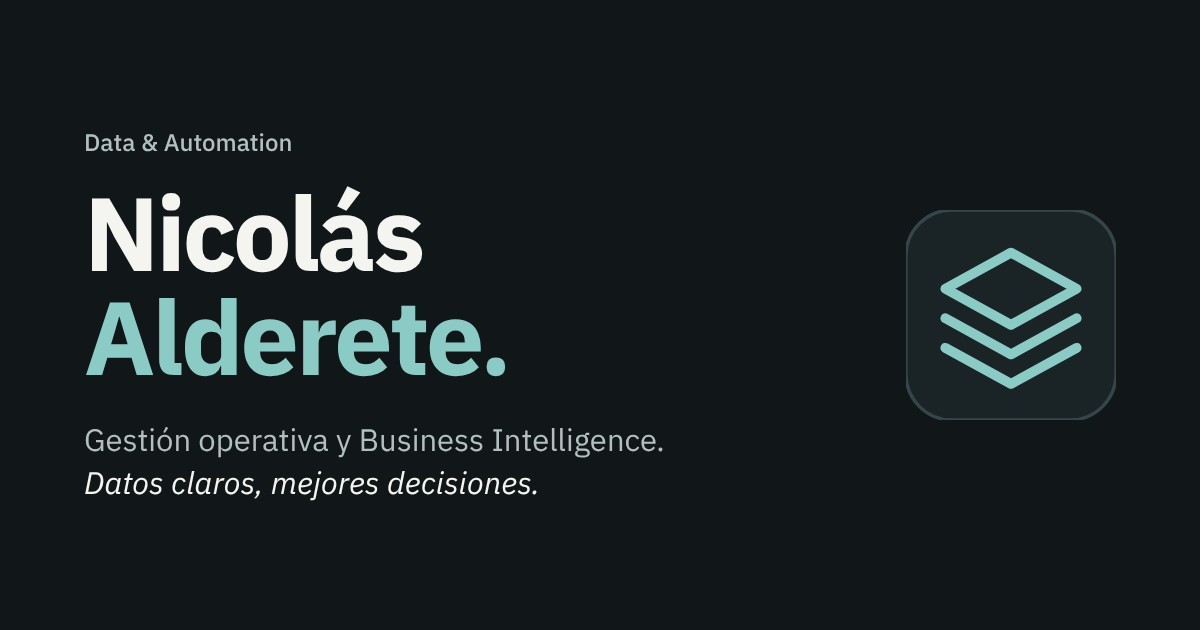
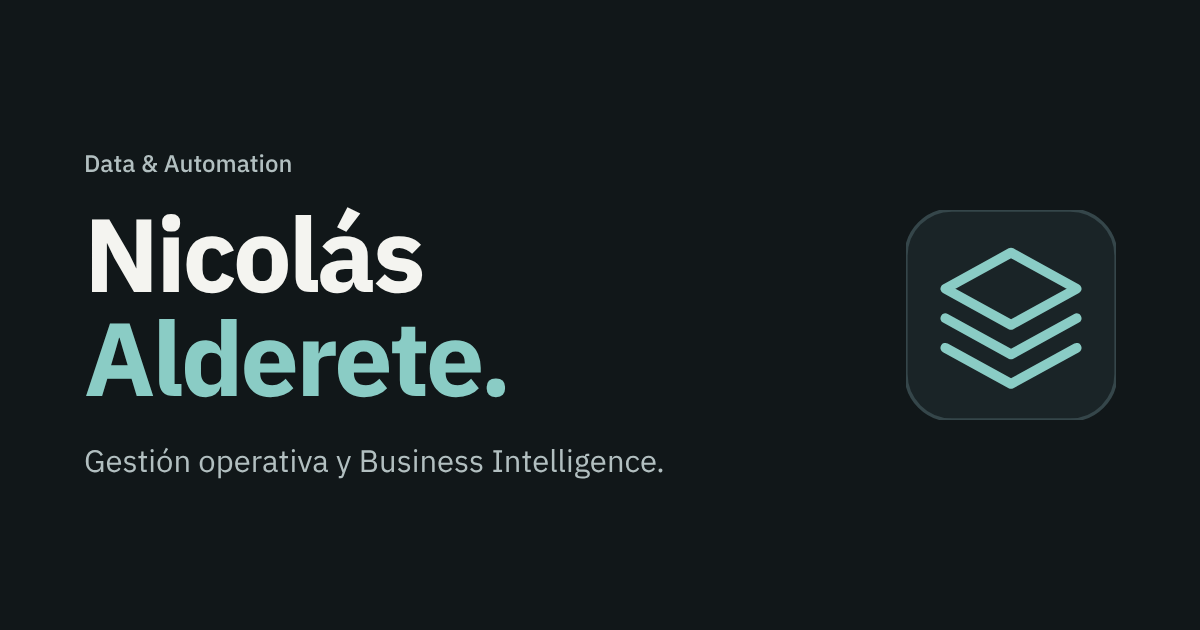
Quita el lema de la portada
Claude-Session: https://claude.ai/code/session_019oqm24apScdJa8YTtKtuDZ

Changed region(s): [[0.0617, 0.3016, 0.4317, 0.6333], [0.0617, 0.6635, 0.555, 0.7841], [0.0617, 0.2111, 0.2467, 0.2714]]

diff --git a/index.html b/index.html
@@ -2,7 +2,7 @@
 <html lang="es"><head><meta charset="utf-8"><meta name="viewport" content="width=device-width,initial-scale=1"><title>Nicolás Alderete — Data &amp; Automation</title><meta name="description" content="Portfolio de Nicolás Alderete: gestión operativa y de equipos, coordinación transversal, Business Intelligence, reporting ejecutivo y mejora de procesos."><meta name="theme-color" content="#111719"><link rel="canonical" href="https://nicoalderete.github.io/"><link rel="stylesheet" href="assets/css/portfolio.css?v=20261118c"><link rel="icon" href="assets/img/favicon.svg" type="image/svg+xml"><meta property="og:type" content="website"><meta property="og:site_name" content="Nicolás Alderete"><meta property="og:locale" content="es_AR"><meta property="og:title" content="Nicolás Alderete — Data &amp; Automation"><meta property="og:description" content="Portfolio de Nicolás Alderete: gestión operativa y de equipos, coordinación transversal, Business Intelligence, reporting ejecutivo y mejora de procesos."><meta property="og:url" content="https://nicoalderete.github.io/"><meta property="og:image" content="https://nicoalderete.github.io/assets/img/og.png"><meta property="og:image:width" content="1200"><meta property="og:image:height" content="630"><meta name="twitter:card" content="summary_large_image"><link rel="stylesheet" href="assets/css/refine.css?v=20261118h"></head>
 <body><a class="skip" href="#contenido">Saltar al contenido</a>
 <header><nav class="wrap main-nav" aria-label="Navegación principal"><a class="identity" href="#inicio">Nicolás Alderete <span>Data &amp; Automation</span></a><div class="navlinks"><a href="#proyectos">Proyectos</a><a href="#sobre-mi">Sobre mí</a><a href="#contacto">Contacto</a></div></nav></header>
-<main class="wrap" id="contenido"><section class="hero" id="inicio"><div><h1>Nicolás<br><span>Alderete.</span></h1><p class="hero-lead">Gestión operativa y Business Intelligence.<br><em class="hero-motto">Datos claros, mejores decisiones.</em></p><a class="hero-link" href="#proyectos">Ver proyectos <svg class="arrow" viewBox="0 0 24 24" aria-hidden="true"><path d="M5 12h14m-6-6 6 6-6 6"/></svg></a></div><svg class="hero-diagram" viewBox="88 33 284 154" aria-hidden="true"><g fill="none" stroke="#507c79" stroke-width="1.4"><path d="M100 45C150 45 150 110 195 110M100 110H195M100 175C150 175 150 110 195 110M265 110C310 110 310 45 360 45M265 110H360M265 110C310 110 310 175 360 175"/></g><g fill="none"><path class="hd-flow hd-in" pathLength="100" d="M100 45C150 45 150 110 195 110"/><path class="hd-flow hd-in hd-d1" pathLength="100" d="M100 110H195"/><path class="hd-flow hd-in hd-d2" pathLength="100" d="M100 175C150 175 150 110 195 110"/><path class="hd-flow hd-out" pathLength="100" d="M265 110C310 110 310 45 360 45"/><path class="hd-flow hd-out hd-d1" pathLength="100" d="M265 110H360"/><path class="hd-flow hd-out hd-d2" pathLength="100" d="M265 110C310 110 310 175 360 175"/></g><g fill="#8ACCC5"><circle cx="100" cy="45" r="5"/><circle cx="100" cy="110" r="5"/><circle cx="100" cy="175" r="5"/><circle cx="360" cy="45" r="5"/><circle cx="360" cy="110" r="5"/><circle cx="360" cy="175" r="5"/></g><rect x="195" y="75" width="70" height="70" rx="14" fill="#182729" stroke="#8ACCC5" stroke-width="1.6"/><g stroke="#8ACCC5" stroke-width="1.7" fill="none"><path d="m213 103 17-9 17 9-17 9-17-9Zm0 10 17 9 17-9m-34 10 17 9 17-9"/></g></svg></section>
+<main class="wrap" id="contenido"><section class="hero" id="inicio"><div><h1>Nicolás<br><span>Alderete.</span></h1><p class="hero-lead">Gestión operativa y Business Intelligence.</p><a class="hero-link" href="#proyectos">Ver proyectos <svg class="arrow" viewBox="0 0 24 24" aria-hidden="true"><path d="M5 12h14m-6-6 6 6-6 6"/></svg></a></div><svg class="hero-diagram" viewBox="88 33 284 154" aria-hidden="true"><g fill="none" stroke="#507c79" stroke-width="1.4"><path d="M100 45C150 45 150 110 195 110M100 110H195M100 175C150 175 150 110 195 110M265 110C310 110 310 45 360 45M265 110H360M265 110C310 110 310 175 360 175"/></g><g fill="none"><path class="hd-flow hd-in" pathLength="100" d="M100 45C150 45 150 110 195 110"/><path class="hd-flow hd-in hd-d1" pathLength="100" d="M100 110H195"/><path class="hd-flow hd-in hd-d2" pathLength="100" d="M100 175C150 175 150 110 195 110"/><path class="hd-flow hd-out" pathLength="100" d="M265 110C310 110 310 45 360 45"/><path class="hd-flow hd-out hd-d1" pathLength="100" d="M265 110H360"/><path class="hd-flow hd-out hd-d2" pathLength="100" d="M265 110C310 110 310 175 360 175"/></g><g fill="#8ACCC5"><circle cx="100" cy="45" r="5"/><circle cx="100" cy="110" r="5"/><circle cx="100" cy="175" r="5"/><circle cx="360" cy="45" r="5"/><circle cx="360" cy="110" r="5"/><circle cx="360" cy="175" r="5"/></g><rect x="195" y="75" width="70" height="70" rx="14" fill="#182729" stroke="#8ACCC5" stroke-width="1.6"/><g stroke="#8ACCC5" stroke-width="1.7" fill="none"><path d="m213 103 17-9 17 9-17 9-17-9Zm0 10 17 9 17-9m-34 10 17 9 17-9"/></g></svg></section>
 <section class="work" id="proyectos"><div class="section-head"><h2>Proyectos seleccionados</h2><p>Problemas reales, mi aporte y las soluciones que construí.</p></div><div class="filters" role="group" aria-label="Filtrar proyectos"><button type="button" data-filter="all" aria-pressed="true">Todos</button><button type="button" data-filter="management" aria-pressed="false">Gestión</button><button type="button" data-filter="automation" aria-pressed="false">Automatización</button><button type="button" data-filter="bi" aria-pressed="false">Business Intelligence</button></div><p class="filter-status sr-only" role="status" aria-live="polite">7 proyectos</p><div class="projects"><article class="project" data-category="operations automation"><a class="project-visual" href="casos/gestion-cobranzas.html" aria-label="Ver caso: Gestión de cobranzas"><figure><div class="mini-app" aria-hidden="true"><div class="mini-side"><span class="mini-symbol">◇</span><span class="selected">Carteras</span><span class="">Casos</span><span class="">Archivo</span></div><div class="mini-main"><strong>Gestión de cartera</strong><div class="mini-table"><div class="mini-head"><span>Registro</span><span>Estado</span><span>Detalle</span></div><div class="mini-row"><i></i><span class="mini-state ">Pendiente</span><i></i></div><div class="mini-row"><i></i><span class="mini-state bright">En gestión</span><i></i></div><div class="mini-row"><i></i><span class="mini-state ">En gestión</span><i></i></div><div class="mini-row"><i></i><span class="mini-state bright">Cerrado</span><i></i></div></div></div></div><figcaption>Vista conceptual</figcaption></figure></a><div class="project-body"><p class="project-type">Sistemas de negocio · +50 usuarios</p><h3><a href="casos/gestion-cobranzas.html">Gestión de cobranzas</a></h3><p class="project-description">Conecté los saldos y pagos de los clientes con la gestión de cada ejecutivo y el seguimiento central, preservando estados, comentarios e histórico.</p><div class="tags"><span class="tag">Apps Script</span><span class="tag">Google Sheets</span></div><a class="case-link" href="casos/gestion-cobranzas.html" aria-label="Ver caso de Gestión de cobranzas">Ver caso <svg class="arrow" viewBox="0 0 24 24" aria-hidden="true"><path d="M5 12h14m-6-6 6 6-6 6"/></svg></a></div></article><article class="project" data-category="operations bi management"><a class="project-visual" href="casos/reporting-ejecutivo.html" aria-label="Ver caso: Reporting ejecutivo"><figure><div class="mini-app" aria-hidden="true"><div class="mini-side"><span class="mini-symbol">◇</span><span class="selected">Resumen</span><span class="">Períodos</span><span class="">Fuentes</span></div><div class="mini-main"><strong>Informe operativo</strong><div class="mini-report"><div class="mini-lines"><i></i><i></i><i></i></div><div class="mini-bars"><i style="height:30%"></i><i style="height:50%"></i><i style="height:40%"></i><i style="height:70%"></i><i style="height:55%"></i><i style="height:85%"></i></div></div></div></div><figcaption>Vista conceptual</figcaption></figure></a><div class="project-body"><p class="project-type">Análisis y comunicación · Dirección</p><h3><a href="casos/reporting-ejecutivo.html">Reporting ejecutivo</a></h3><p class="project-description">Consolidé indicadores y preparé reportes que explican variaciones, pendientes y prioridades para las conversaciones de gestión.</p><div class="tags"><span class="tag">Reporting</span><span class="tag">Business Intelligence</span></div><a class="case-link" href="casos/reporting-ejecutivo.html" aria-label="Ver caso de Reporting ejecutivo">Ver caso <svg class="arrow" viewBox="0 0 24 24" aria-hidden="true"><path d="M5 12h14m-6-6 6 6-6 6"/></svg></a></div></article><article class="project" data-category="operations management"><a class="project-visual" href="casos/sistema-gestion.html" aria-label="Ver caso: Gestión operativa y de equipos"><figure><div class="mini-app" aria-hidden="true"><div class="mini-side"><span class="mini-symbol">◇</span><span class="selected">Prioridades</span><span class="">Acciones</span><span class="">Decisiones</span></div><div class="mini-main"><strong>Seguimiento de gestión</strong><div class="mini-table"><div class="mini-head"><span>Tema</span><span>Estado</span><span>Responsable</span></div><div class="mini-row"><i></i><span class="mini-state ">Asignado</span><i></i></div><div class="mini-row"><i></i><span class="mini-state bright">En curso</span><i></i></div><div class="mini-row"><i></i><span class="mini-state ">Asignado</span><i></i></div><div class="mini-row"><i></i><span class="mini-state bright">Cerrado</span><i></i></div></div></div></div><figcaption>Vista conceptual</figcaption></figure></a><div class="project-body"><p class="project-type">Gestión · +60 personas</p><h3><a href="casos/sistema-gestion.html">Gestión operativa y de equipos</a></h3><p class="project-description">Comparto la supervisión de un equipo de más de 60 personas: ordeno prioridades, coordino con otras áreas y llevo cada reunión a acciones con responsable.</p><div class="tags"><span class="tag">Gestión de equipos</span><span class="tag">Coordinación</span><span class="tag">KPIs</span></div><a class="case-link" href="casos/sistema-gestion.html" aria-label="Ver caso de Gestión operativa y de equipos">Ver caso <svg class="arrow" viewBox="0 0 24 24" aria-hidden="true"><path d="M5 12h14m-6-6 6 6-6 6"/></svg></a></div></article><article class="project" data-category="bi"><a class="project-visual" href="casos/business-intelligence.html" aria-label="Explorar Business Intelligence"><figure><div class="bi-cover" aria-hidden="true"><div class="bi-cover-title">Business Intelligence <span>04 casos</span></div><div class="bi-cover-grid"><div><b>01</b><span>Operaciones</span><small>Actividad · pendientes</small></div><div><b>02</b><span>Continuidad</span><small>Movilidad · tiempos</small></div><div><b>03</b><span>Bajas</span><small>Motivos · permanencia</small></div><div><b>04</b><span>Atención</span><small>Mensajes · conversaciones</small></div></div></div><figcaption>Áreas de análisis</figcaption></figure></a><div class="project-body"><p class="project-type">Analytics · 4 casos aplicados</p><h3><a href="casos/business-intelligence.html">Business Intelligence</a></h3><p class="project-description">Desarrollé tableros y análisis sobre operaciones, continuidad, bajas y atención, desde la definición de métricas hasta la lectura del resultado.</p><div class="tags"><span class="tag">Data Studio</span><span class="tag">Data Analysis</span><span class="tag">KPIs</span></div><a class="case-link" href="casos/business-intelligence.html" aria-label="Explorar los casos de Business Intelligence">Explorar casos <svg class="arrow" viewBox="0 0 24 24" aria-hidden="true"><path d="M5 12h14m-6-6 6 6-6 6"/></svg></a></div></article><article class="project" data-category="operations bi automation"><a class="project-visual" href="casos/control-flota-datos.html" aria-label="Ver caso: Control de flota"><figure><div class="mini-app" aria-hidden="true"><div class="mini-side"><span class="mini-symbol">◇</span><span class="selected">Unidades</span><span class="">Registros</span><span class="">Histórico</span></div><div class="mini-main"><strong>Registro de flota</strong><div class="mini-table"><div class="mini-head"><span>Registro</span><span>Estado</span><span>Detalle</span></div><div class="mini-row"><i></i><span class="mini-state ">Activo</span><i></i></div><div class="mini-row"><i></i><span class="mini-state bright">En revisión</span><i></i></div><div class="mini-row"><i></i><span class="mini-state ">Activo</span><i></i></div><div class="mini-row"><i></i><span class="mini-state bright">Registrado</span><i></i></div></div></div></div><figcaption>Vista conceptual</figcaption></figure></a><div class="project-body"><p class="project-type">Integración de datos · +5.000 unidades</p><h3><a href="casos/control-flota-datos.html">Control de flota</a></h3><p class="project-description">Integré fuentes de flota, revisiones periódicas y mantenimiento con validaciones e históricos para consultar el estado actual y comparar períodos.</p><div class="tags"><span class="tag">Apps Script</span><span class="tag">Google Sheets</span><span class="tag">Data Studio</span></div><a class="case-link" href="casos/control-flota-datos.html" aria-label="Ver caso de Control de flota">Ver caso <svg class="arrow" viewBox="0 0 24 24" aria-hidden="true"><path d="M5 12h14m-6-6 6 6-6 6"/></svg></a></div></article><article class="project" data-category="operations automation management"><a class="project-visual" href="casos/procesos-entre-equipos.html" aria-label="Ver caso: Automatización de procesos"><figure><div class="mini-app" aria-hidden="true"><div class="mini-side"><span class="mini-symbol">◇</span><span class="selected">Flujos</span><span class="">Registros</span><span class="">Reglas</span></div><div class="mini-main"><strong>Flujo de trabajo</strong><div class="mini-flow"><div><i>01</i><span>Registro</span></div><b>›</b><div class="active"><i>02</i><span>Reglas</span></div><b>›</b><div><i>03</i><span>Equipo</span></div></div><div class="mini-track"><span></span><span></span><span></span></div></div></div><figcaption>Vista conceptual</figcaption></figure></a><div class="project-body"><p class="project-type">Diseño de procesos</p><h3><a href="casos/procesos-entre-equipos.html">Automatización de procesos</a></h3><p class="project-description">Convertí necesidades de distintos equipos en registros, reglas y automatizaciones para dar continuidad a cada gestión.</p><div class="tags"><span class="tag">Apps Script</span><span class="tag">Google Sheets</span></div><a class="case-link" href="casos/procesos-entre-equipos.html" aria-label="Ver caso de Automatización de procesos">Ver caso <svg class="arrow" viewBox="0 0 24 24" aria-hidden="true"><path d="M5 12h14m-6-6 6 6-6 6"/></svg></a></div></article><article class="project" data-category="operations automation bi"><a class="project-visual" href="casos/fleet-ops-center.html" aria-label="Ver caso: Fleet Ops Center"><figure><div class="mini-app" aria-hidden="true"><div class="mini-side"><span class="mini-symbol">◇</span><span class="selected">Operación</span><span>Equipos</span><span>Seguimiento</span></div><div class="mini-main"><strong>Fleet Ops Center</strong><div class="mini-modules"><span>Revisiones</span><span>Mantenimiento</span><span>Taller</span><span>Gas</span><span>Documentación</span><span>Cobranzas</span></div></div></div><figcaption>Vista conceptual</figcaption></figure></a><div class="project-body"><p class="project-type">Producto interno · En desarrollo</p><h3><a href="casos/fleet-ops-center.html">Fleet Ops Center</a></h3><p class="project-description">Diseño una herramienta interna para reunir procesos, información e indicadores de flota en un mismo espacio de trabajo.</p><div class="tags"><span class="tag">Diseño funcional</span><span class="tag">Integración de datos</span></div><a class="case-link" href="casos/fleet-ops-center.html" aria-label="Ver caso de Fleet Ops Center">Ver caso <svg class="arrow" viewBox="0 0 24 24" aria-hidden="true"><path d="M5 12h14m-6-6 6 6-6 6"/></svg></a></div></article></div></section>
 <section id="sobre-mi" class="about"><div><div class="eyebrow">Sobre mí</div><h2>Entender el problema.<br>Construir la solución.</h2><div class="portrait"><img src="assets/img/retrato-mejorado-320.webp" srcset="assets/img/retrato-mejorado-320.webp 320w, assets/img/retrato-mejorado.webp 1254w" sizes="84px" width="1254" height="1254" alt="Nicolás Alderete" loading="lazy" decoding="async"><div><b>Nicolás Alderete</b><small>Data &amp; Automation · Buenos Aires</small></div></div></div><div class="about-copy"><p>Soy Nicolás. Combino gestión de operaciones y equipos con análisis de datos, Business Intelligence y automatización para mejorar procesos y decisiones de negocio. Actualmente soy supervisor en deRentas, donde coordino iniciativas entre equipos, defino KPIs y desarrollo reportes ejecutivos y herramientas de gestión.</p><p>Mi foco está en detectar oportunidades de mejora, simplificar procesos y transformar datos en acciones. Estoy disponible para roles corporativos y proyectos independientes que requieran una mirada integral del negocio y soluciones con resultados medibles.</p></div><div class="toolbox" aria-labelledby="toolbox-title"><h3 id="toolbox-title">Herramientas y habilidades</h3><ul class="tools-grid"><li><svg viewBox="0 0 24 24" aria-hidden="true" focusable="false"><rect x="4" y="3" width="16" height="18" rx="2"/><path d="M4 9h16M4 15h16M10 9v12"/></svg><span>Google Sheets</span></li><li><svg viewBox="0 0 24 24" aria-hidden="true" focusable="false"><path d="m8 5-6 7 6 7m8-14 6 7-6 7M14 3l-4 18"/></svg><span>Google Apps Script</span></li><li><svg viewBox="0 0 24 24" aria-hidden="true" focusable="false"><rect x="4" y="3" width="16" height="18" rx="2"/><path d="M4 9h16M4 15h16M10 9v12"/></svg><span>Microsoft Excel</span></li><li><svg viewBox="0 0 24 24" aria-hidden="true" focusable="false"><ellipse cx="12" cy="5" rx="8" ry="3"/><path d="M4 5v14c0 1.7 3.6 3 8 3s8-1.3 8-3V5M4 12c0 1.7 3.6 3 8 3s8-1.3 8-3"/></svg><span>SQL</span></li><li><svg viewBox="0 0 24 24" aria-hidden="true" focusable="false"><path d="M4 3v17h17M8 16v-5m5 5V7m5 9V4"/></svg><span>Data Studio</span></li><li><svg viewBox="0 0 24 24" aria-hidden="true" focusable="false"><path d="m7 6-5 6 5 6m10-12 5 6-5 6M14 3l-4 18"/></svg><span>Python</span></li><li><svg viewBox="0 0 24 24" aria-hidden="true" focusable="false"><circle cx="10" cy="10" r="7"/><path d="m15 15 6 6M7 13V9m3 4V6m3 7v-3"/></svg><span>BigQuery</span></li><li><svg viewBox="0 0 24 24" aria-hidden="true" focusable="false"><path d="M4 3v17h17M8 16v-5m5 5V7m5 9V4"/></svg><span>Power BI</span></li><li><svg viewBox="0 0 24 24" aria-hidden="true" focusable="false"><path d="M12 5v14M5 12h14M5 3v4M3 5h4M19 3v4M17 5h4M5 17v4M3 19h4M19 17v4M17 19h4"/></svg><span>Tableau</span></li><li><svg viewBox="0 0 24 24" aria-hidden="true" focusable="false"><path d="M4 3v17h17M7 15l4-5 3 3 5-7"/></svg><span>Visualización de datos</span></li><li><svg viewBox="0 0 24 24" aria-hidden="true" focusable="false"><circle cx="9" cy="8" r="3.5"/><path d="M2.5 20c.6-3.6 3.200-5.500 6.500-5.500s5.900 1.900 6.500 5.500M16 4.800a3.500 3.500 0 0 1 0 6.400M18.500 14.900c1.700.9 2.700 2.600 3 5.100"/></svg><span>Gestión de equipos</span></li><li><svg viewBox="0 0 24 24" aria-hidden="true" focusable="false"><rect x="5" y="8" width="14" height="11" rx="2"/><path d="M12 8V4M9 13v2m6-2v2M2 13h3m14 0h3"/></svg><span>IA aplicada</span></li><li><svg viewBox="0 0 24 24" aria-hidden="true" focusable="false"><path d="m12 3 2.6 6.4L21 12l-6.4 2.6L12 21l-2.6-6.4L3 12l6.4-2.6L12 3ZM20 2v4m-2-2h4"/></svg><span>Google AI Studio</span></li><li><svg viewBox="0 0 24 24" aria-hidden="true" focusable="false"><path d="M4 5h16v11H9l-5 4V5Z"/></svg><span>Respond.io</span></li><li><svg viewBox="0 0 24 24" aria-hidden="true" focusable="false"><rect x="5" y="3" width="14" height="18" rx="2"/><path d="M9 8h6M9 12h6M9 16h3"/></svg><span>Google Workspace</span></li></ul></div><div class="capabilities"><div class="capability"><span class="num">01</span><div><h3>Gestión operativa y de equipos</h3><p>Organizo prioridades, coordino acciones entre equipos y doy seguimiento a responsables, plazos y desvíos.</p></div></div><div class="capability"><span class="num">02</span><div><h3>Business Intelligence y reporting ejecutivo</h3><p>Defino y valido indicadores, fuentes y tableros, y los traduzco en reportes claros para conversaciones de gestión.</p></div></div><div class="capability"><span class="num">03</span><div><h3>Automatización y herramientas internas</h3><p>Desarrollo flujos, fórmulas y scripts que reducen tareas repetitivas, y participo en la definición y construcción de soluciones para los equipos.</p></div></div></div>
 </section>
